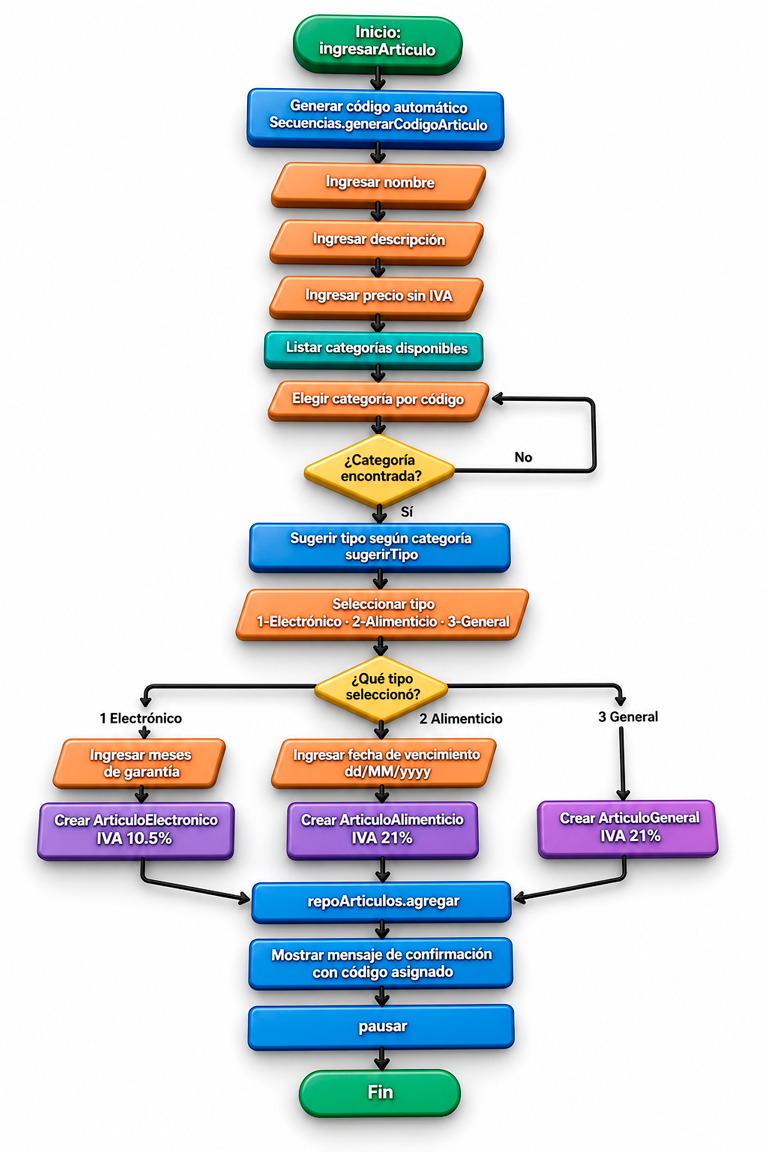
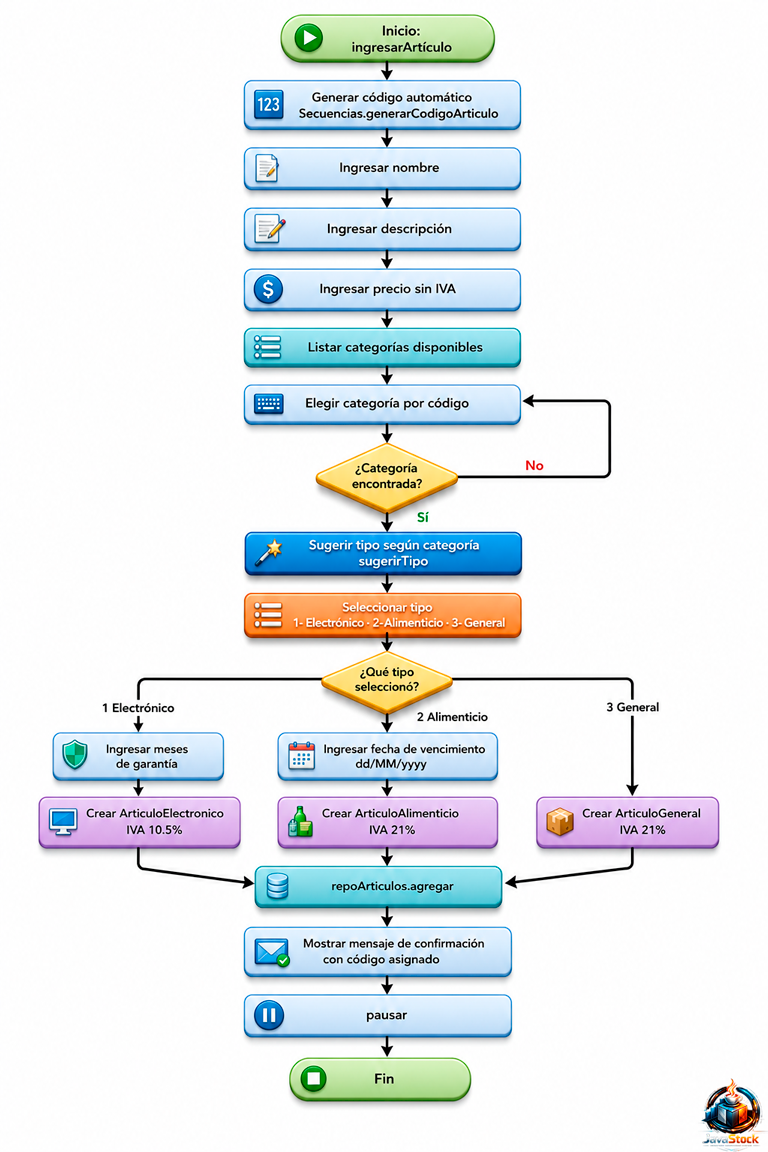
diagramas readme

diff --git a/README.md b/README.md
@@ -167,7 +167,7 @@ O usando la tarea de VS Code:
 
 ---
 
-## �🗺️ Flujo de la aplicación
+## �🗺️ Flujo de Navegación de la aplicación
 
 ```
 MenuPrincipal
@@ -189,19 +189,41 @@ MenuPrincipal
 │       └── 0. Volver al menú principal
 └── 0. Salir
 ```
+<div align="center">
+  <img src="./assets/navegacion.png" alt="Diagrama de navegacion" width="800">
+</div>
+
 ---
 
-## 📊 Diagrama de control Alta de Producto: menuArticulos.ingresarArticulo()
+## 📊 Diagrama de Actividad con Swimlanes
+- muestra flujo lógico del proceso y decisiones.
 
 <div align="center">
-  <img src="./assets/altaProd.png" alt="Diagrama de control" width="800">
+  <img src="./assets/actividad.png" alt="Diagrama de control" width="800">
+</div>
+
+---
+
+## 📊 Diagrama de Diagrama de Secuencia UML para el caso de uso: Alta de producto
+- muestra interacción temporal entre objetos/clases (mensajes en orden cronológico)
+
+<div align="center">
+  <img src="./assets/secuencia.png" alt="Diagrama de control" width="800">
+</div>
+
+---
+
+## 📊 Diagrama de control Alta de Producto: MenuArticulos.ingresarArticulo()
+
+<div align="center">
+  <img src="./assets/altaProd.png" alt="Diagrama de control" width="600">
 </div>
 
 
 ### 📌 El flujo clave es:
 
-> 1. El código del producto se genera automáticamente; no lo ingresa el usuario.
-> 2. La categoría se selecciona entre las categorías disponibles del sistema y se valida que exista.
+> 1. El código del producto se genera automáticamente; no lo ingresa el usuario. (MenuArticulos.java)
+> 2. La categoría se selecciona entre las categorías disponibles del sistema y se valida que exista. 
 > 3. Según la categoría, se sugiere un tipo de artículo (Electrónico, Alimenticio o General), pero el usuario puede cambiar esa sugerencia.
 > 4. El tipo elegido define los campos adicionales del alta:
 >    - Electrónico: garantía en meses.